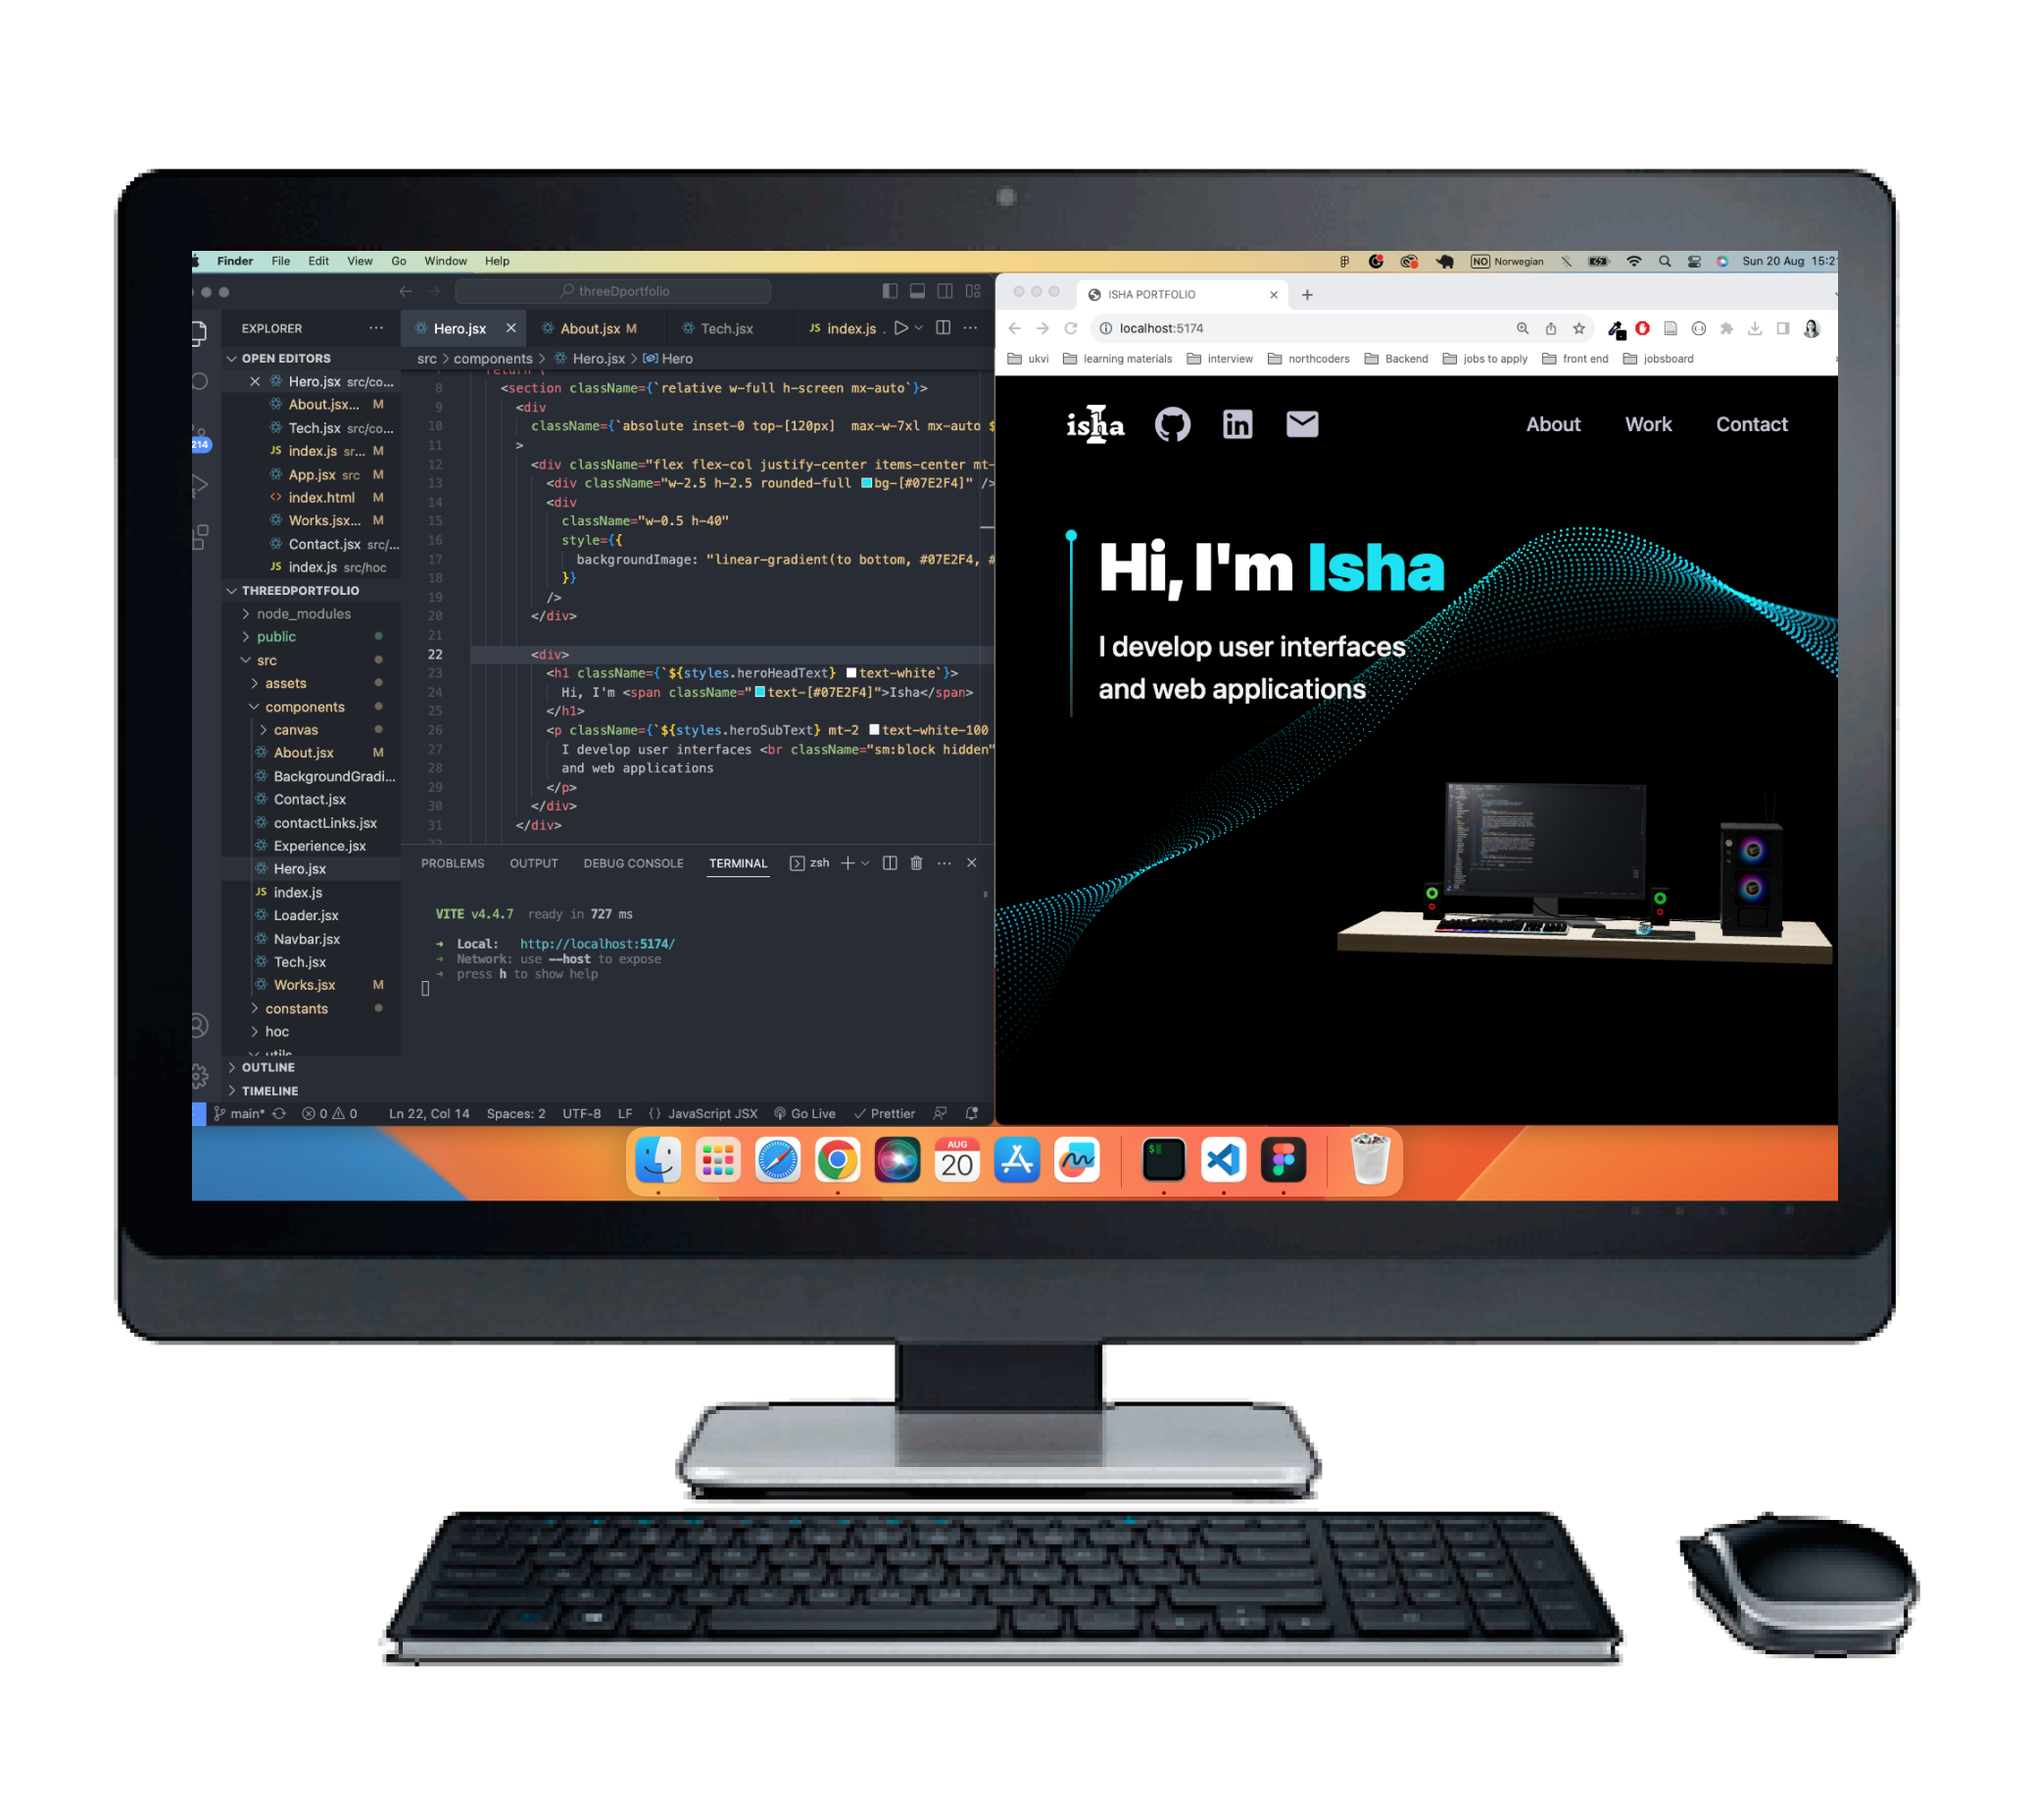
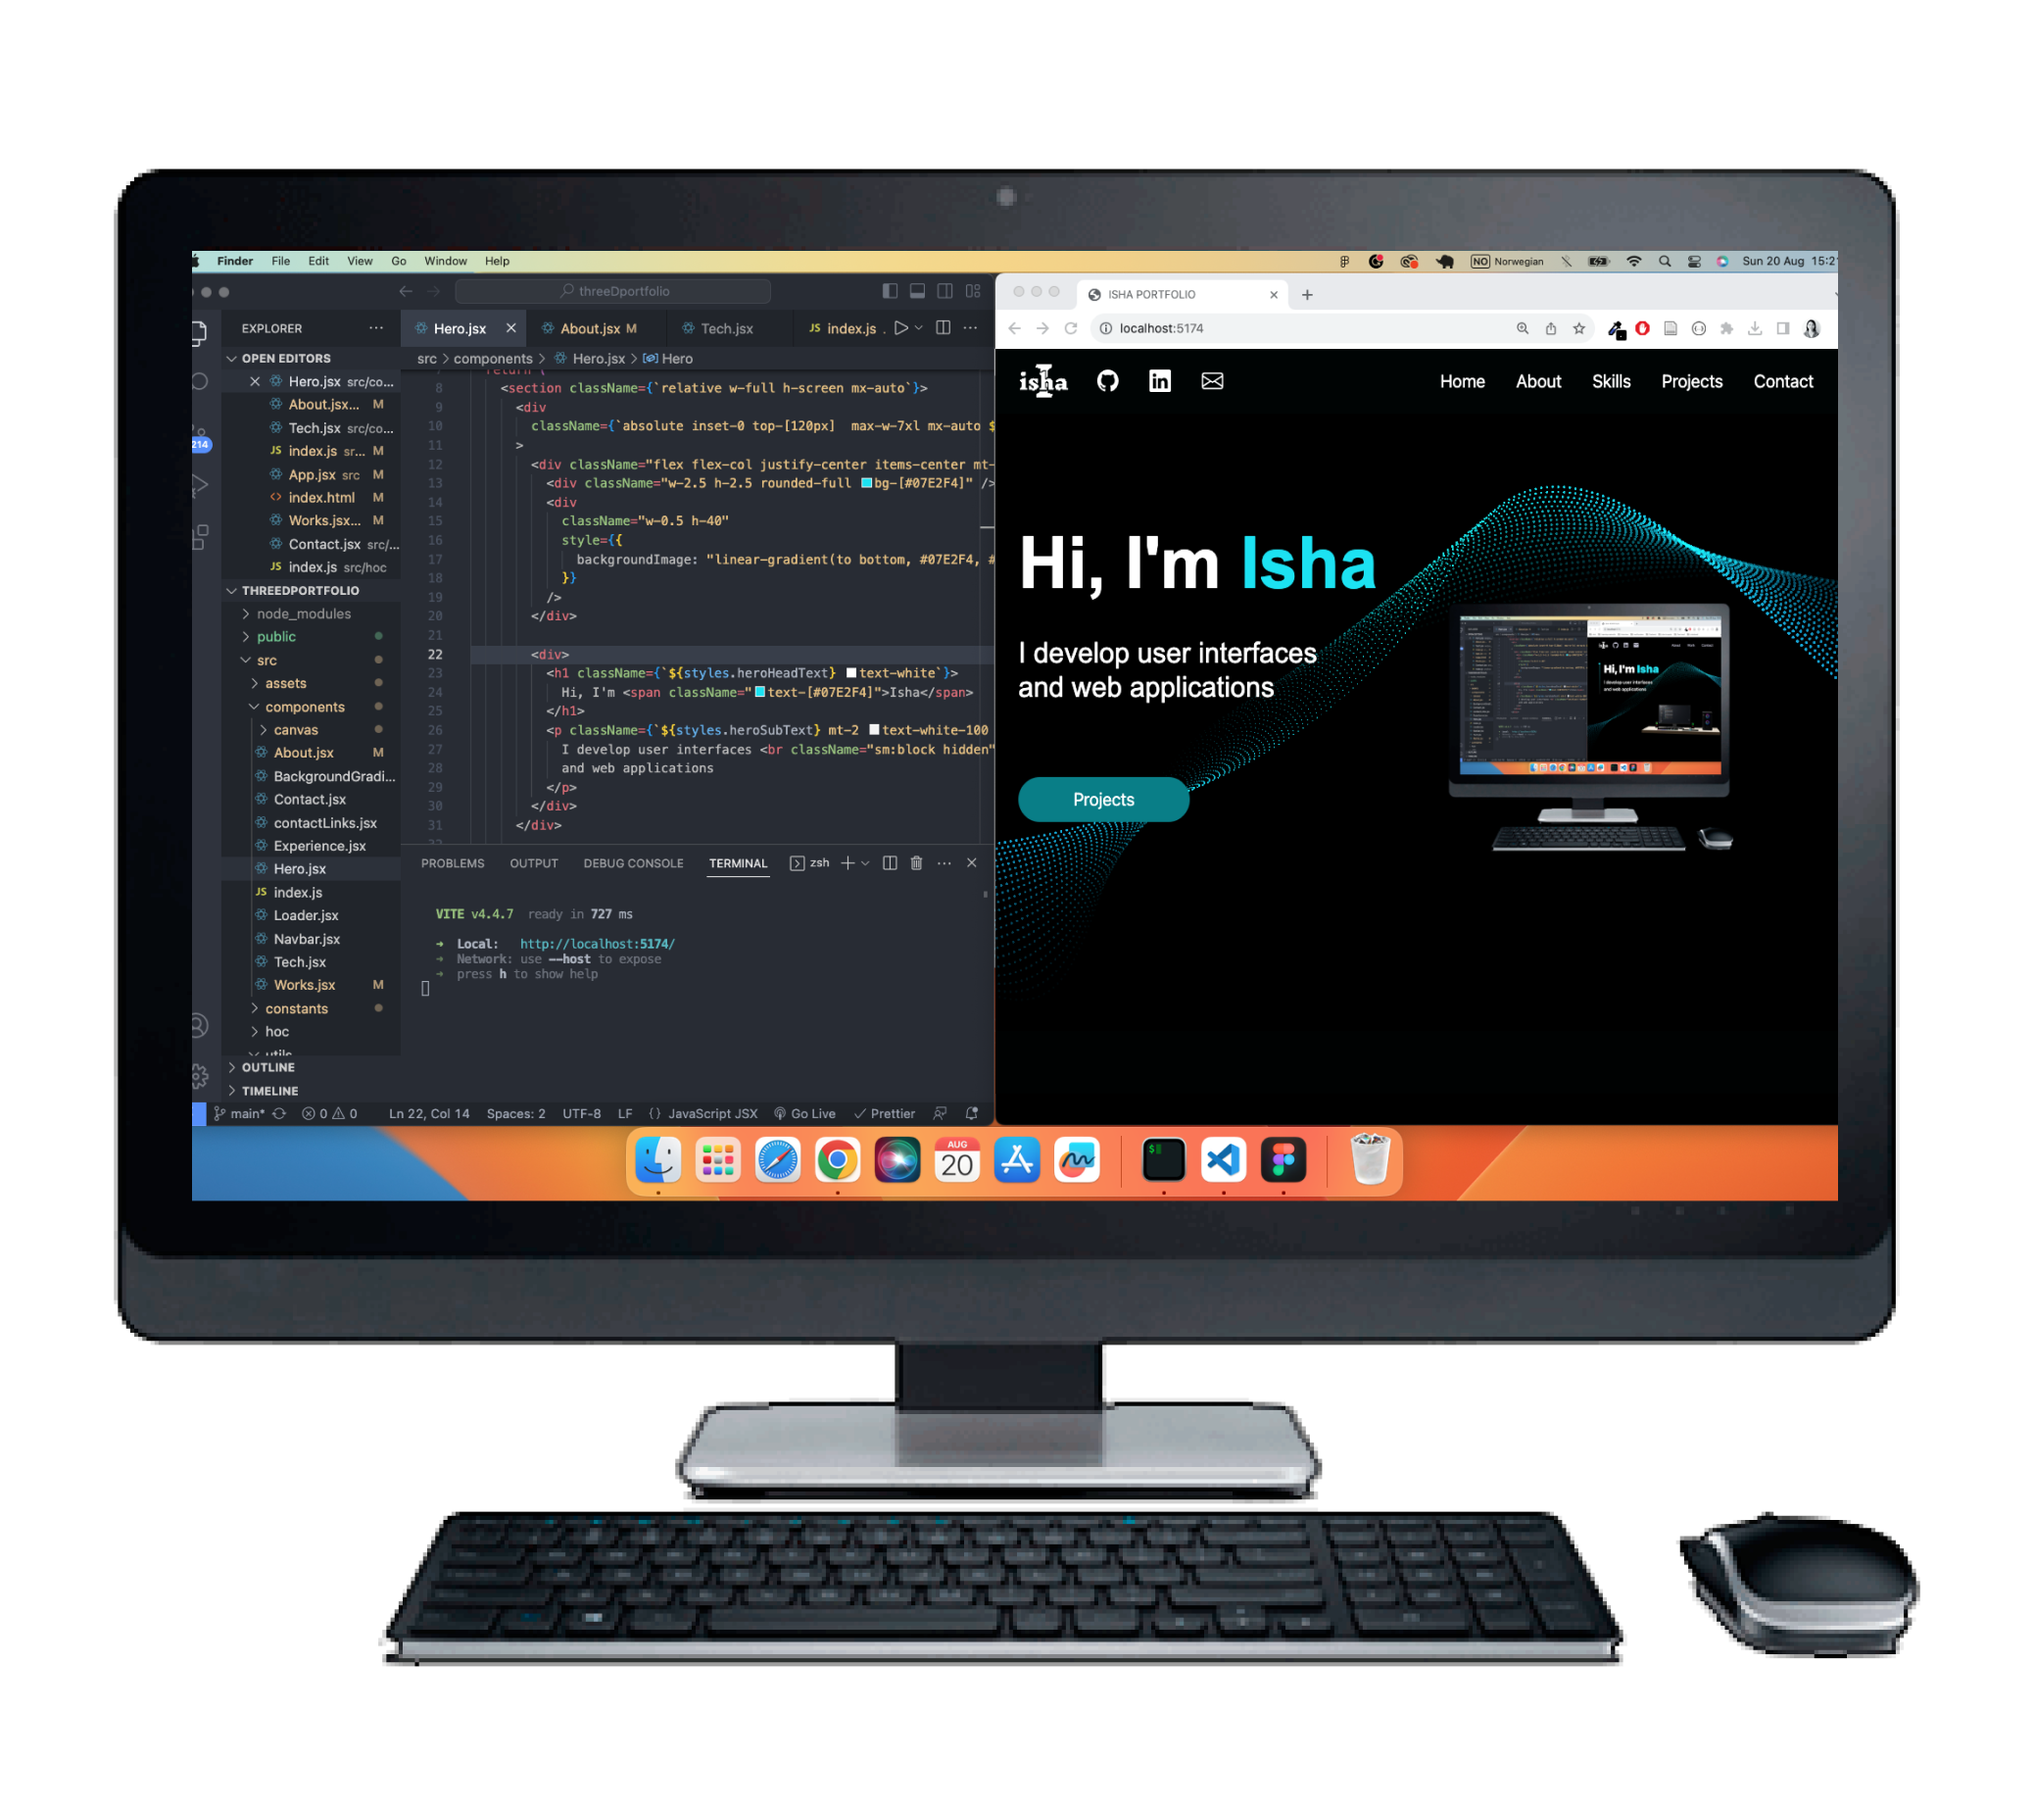
pic edited

Changed region(s): [[0.4933, 0.2776, 0.9249, 0.5552], [0.4933, 0.1851, 0.9249, 0.2468]]

diff --git a/components/Header.jsx b/components/Header.jsx
@@ -45,7 +45,7 @@ const Header = () => {
           backgroundImage: `url(${backgroundImage})`,
           backgroundSize: "cover",
           backgroundPosition: "center",
-          padding: "3rem 0",
+          padding: "4rem 0",
         }}
       >
         <Container className="container">
@@ -93,7 +93,7 @@ const Header = () => {
                 </div>
               </div>
             </div>
-            <DesktopImageContainer className="col-md-3">
+            <DesktopImageContainer className="col-md-5">
               <div className="text-center">
                 <img
                   src="https://raw.githubusercontent.com/ishazimba/Portfolio/main/images/computer.png"

diff --git a/index.html b/index.html
@@ -11,7 +11,7 @@
     />
     <link
       rel="icon"
-      type="image/x-icon"
+      type="logo"
       href="https://raw.githubusercontent.com/ishazimba/Portfolio/main/images/logo.png"
     />
   </head>
